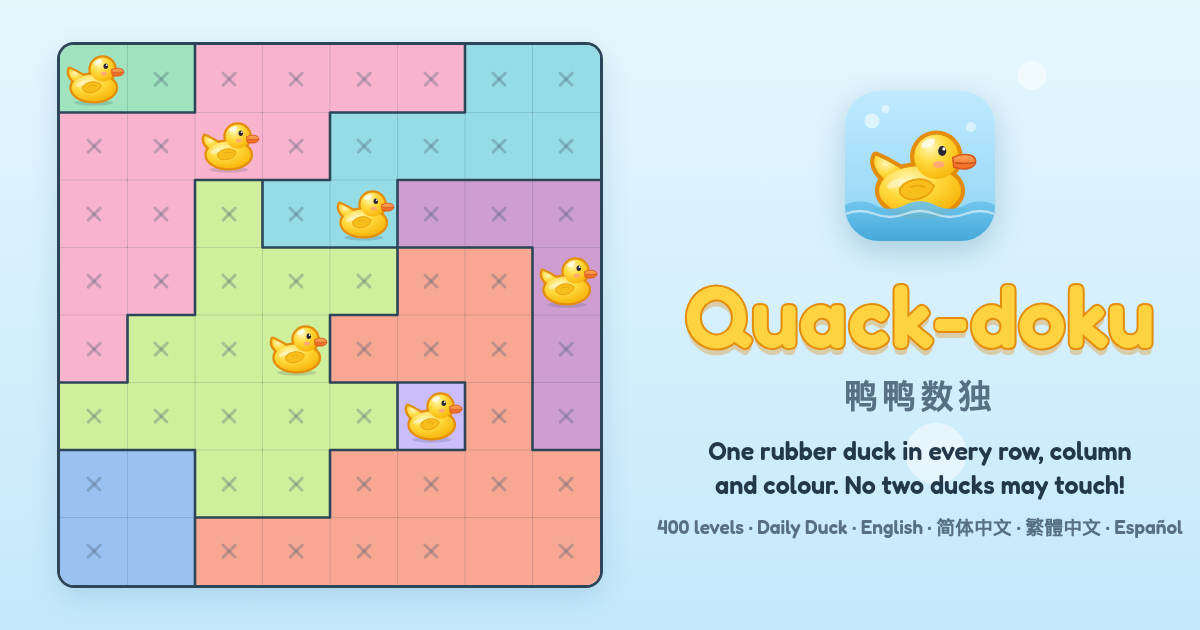
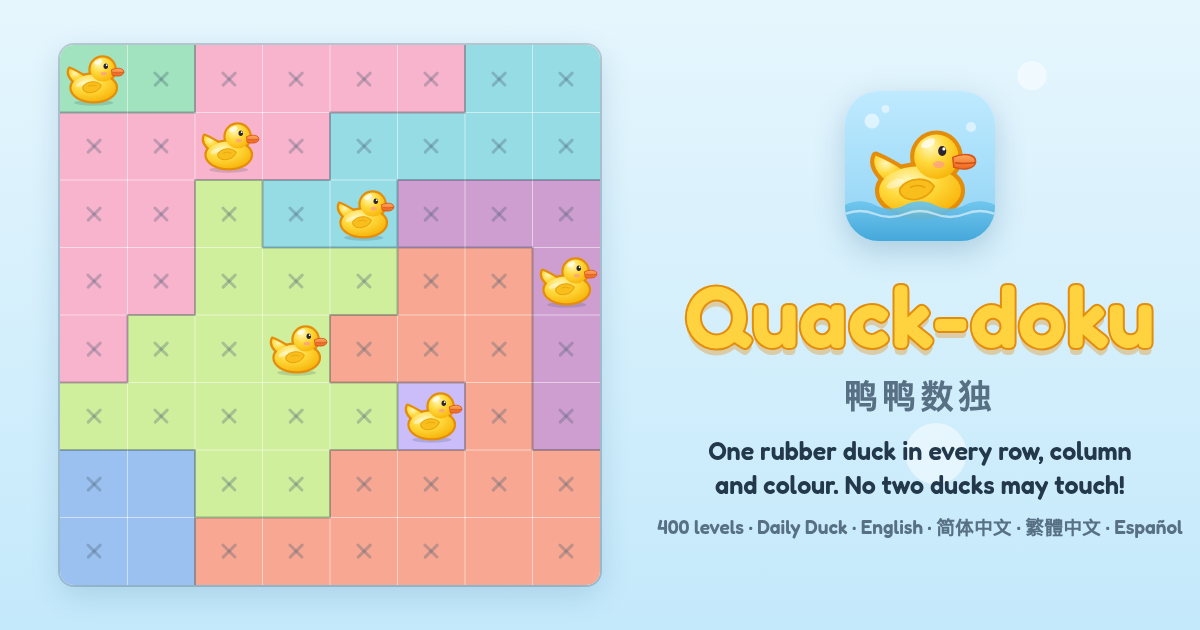
Softer region walls
The dark 2.6 px walls read as heavy black lines over the pastels. Walls
are now a translucent slate (a translucent shade in dark mode) at 2 px,
grid lines are faint white and the board frame is lighter. Neighbouring
regions already get clearly different colours, so the lines only need
to confirm them. Cover image regenerated.

diff --git a/src/styles.css b/src/styles.css
@@ -15,8 +15,10 @@
   --on-accent: #5a3a00;
   --danger: #e8506e;
   --danger-2: #b8344f;
-  --wall: #2d4558;
-  --thin: rgba(45, 69, 88, 0.16);
+  /* Region walls stay soft: the colours carry the regions, the lines only confirm them. */
+  --wall: rgba(35, 56, 74, 0.34);
+  --frame: rgba(35, 56, 74, 0.22);
+  --thin: rgba(255, 255, 255, 0.5);
   --x: #4a6072;
   --ax: rgba(74, 96, 114, 0.32);
   --hint: #e8506e;
@@ -53,8 +55,9 @@
     --btn-shadow: #0d1d2a;
     --primary: #3aa7e4;
     --primary-2: #1e6f9e;
-    --wall: #08131c;
-    --thin: rgba(255, 255, 255, 0.1);
+    --wall: rgba(5, 15, 25, 0.42);
+    --frame: rgba(5, 15, 25, 0.5);
+    --thin: rgba(255, 255, 255, 0.07);
     --x: #eaf3fa;
     --ax: rgba(234, 243, 250, 0.34);
     --dim: rgba(5, 15, 25, 0.5);
@@ -86,8 +89,9 @@
   --btn-shadow: #0d1d2a;
   --primary: #3aa7e4;
   --primary-2: #1e6f9e;
-  --wall: #08131c;
-  --thin: rgba(255, 255, 255, 0.1);
+  --wall: rgba(5, 15, 25, 0.42);
+  --frame: rgba(5, 15, 25, 0.5);
+  --thin: rgba(255, 255, 255, 0.07);
   --x: #eaf3fa;
   --ax: rgba(234, 243, 250, 0.34);
   --dim: rgba(5, 15, 25, 0.5);
@@ -676,7 +680,7 @@ body[data-view='daily'] #topbar .lang-btn {
   border-radius: 14px;
   overflow: hidden;
   background: var(--card-solid);
-  box-shadow: 0 0 0 3px var(--wall), var(--shadow);
+  box-shadow: 0 0 0 2px var(--frame), var(--shadow);
   touch-action: none;
   user-select: none;
   -webkit-user-select: none;
@@ -729,7 +733,7 @@ body[data-view='daily'] #topbar .lang-btn {
 
 .walls .thick {
   stroke: var(--wall);
-  stroke-width: 2.6px;
+  stroke-width: 2px;
 }
 
 .walls .thin {
